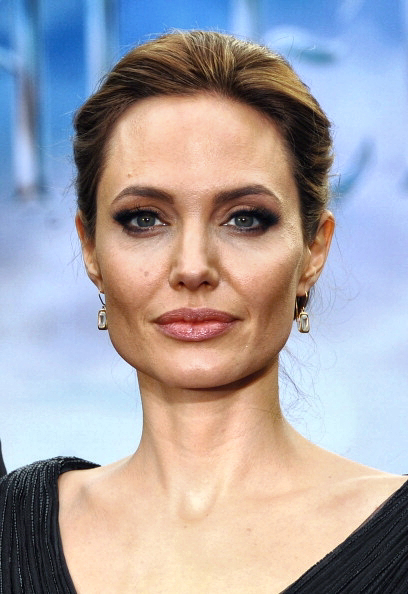
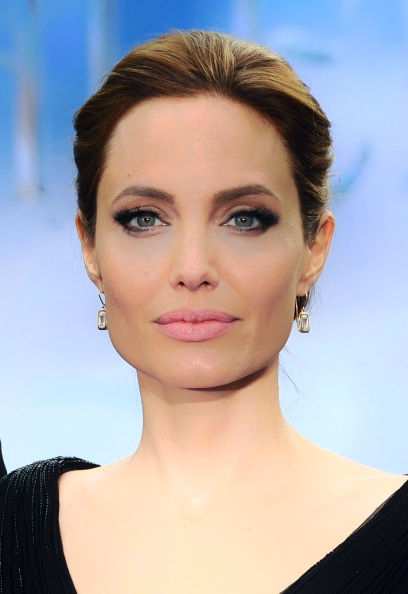
fix: fixing calculation clarity

diff --git a/util/adjustment.ts b/util/adjustment.ts
@@ -400,6 +400,7 @@ class Adjustment {
       throw new Error("Clarity level must be between -100 and 100");
     }
 
+    value /= 200
     try {
      // Read the input image using Jimp
      const image = await Jimp.read(inputImagePath);

diff --git a/main.ts b/main.ts
@@ -1,2 +1,2 @@
 import Adjustment from "./util/adjustment.ts";
-Adjustment.changeAndSaveClarity('img10.jpg', 'img10_edited.jpg', 0.5);
+Adjustment.changeAndSaveClarity('img10.jpg', 'img10_edited.jpg', -100);

diff --git a/note.md b/note.md
@@ -1,5 +1,6 @@
 # need to implement
 
 - temperature
-- clarity
-- sharpness
+- clarity [o]
+- sharpness [o]
+- exposure
